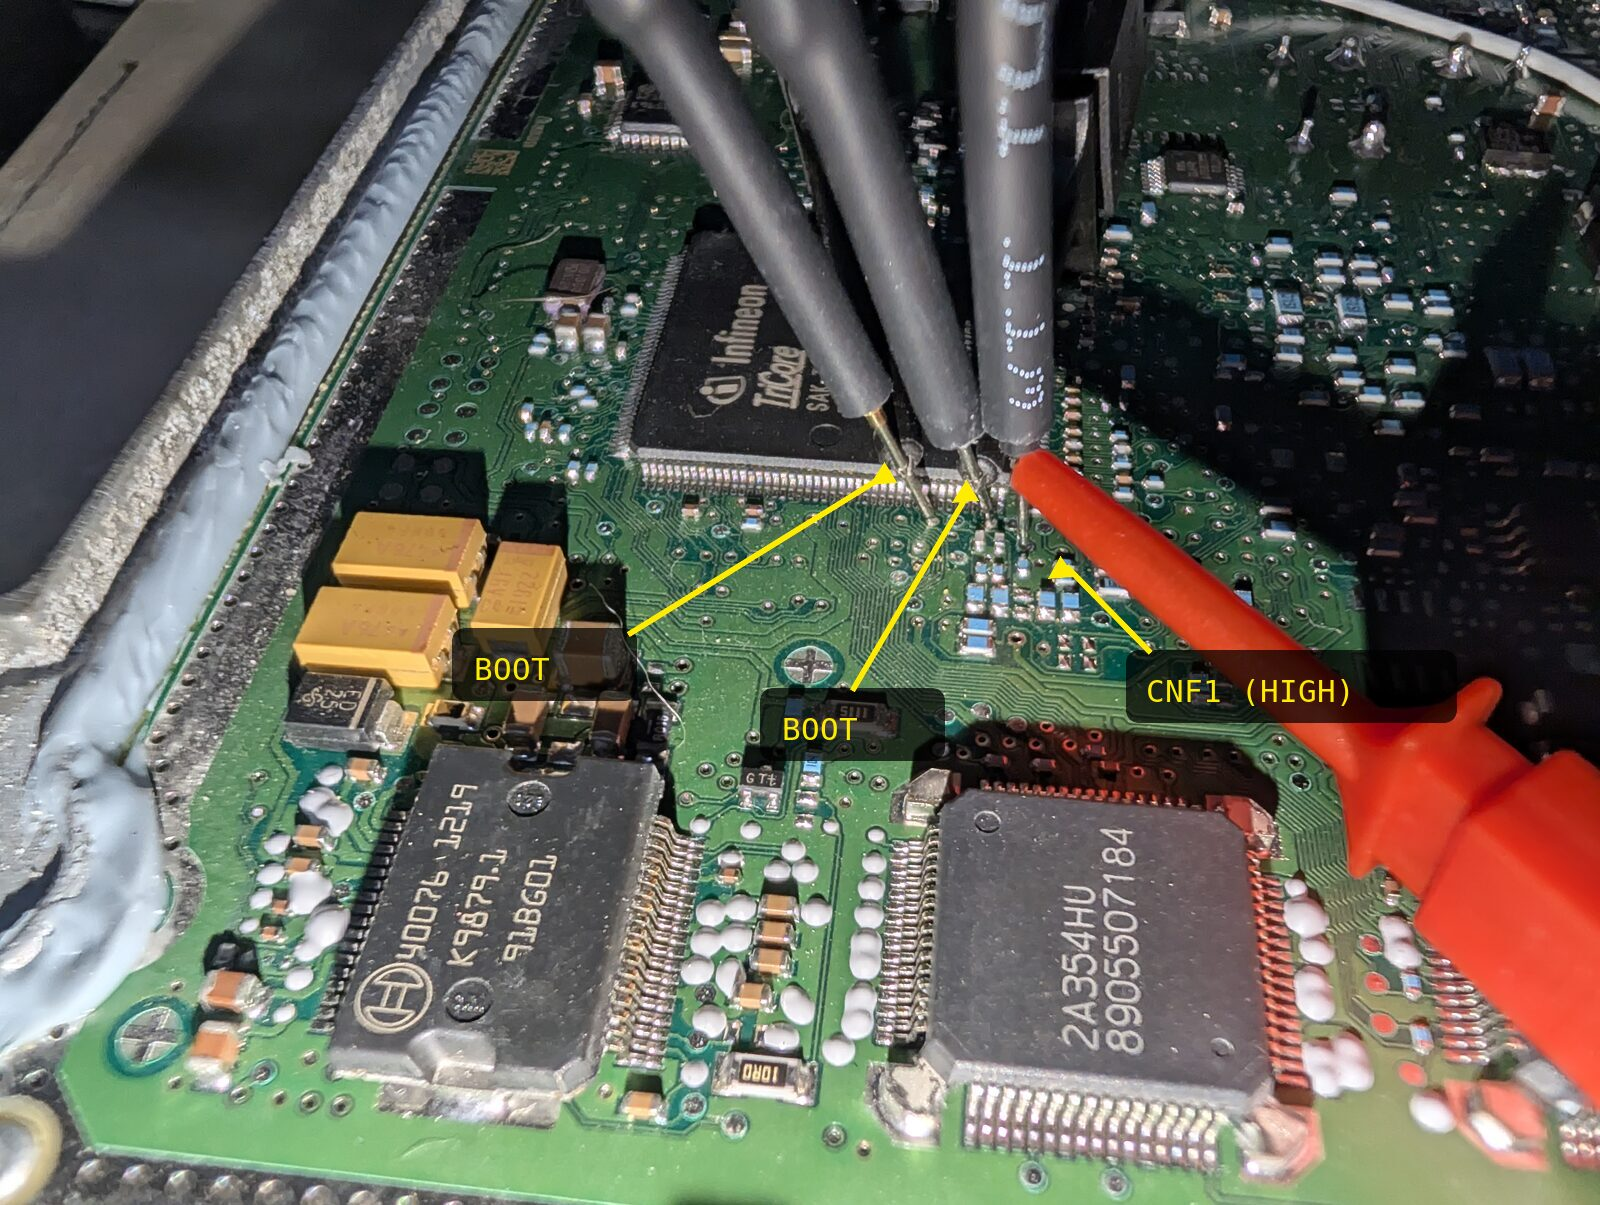
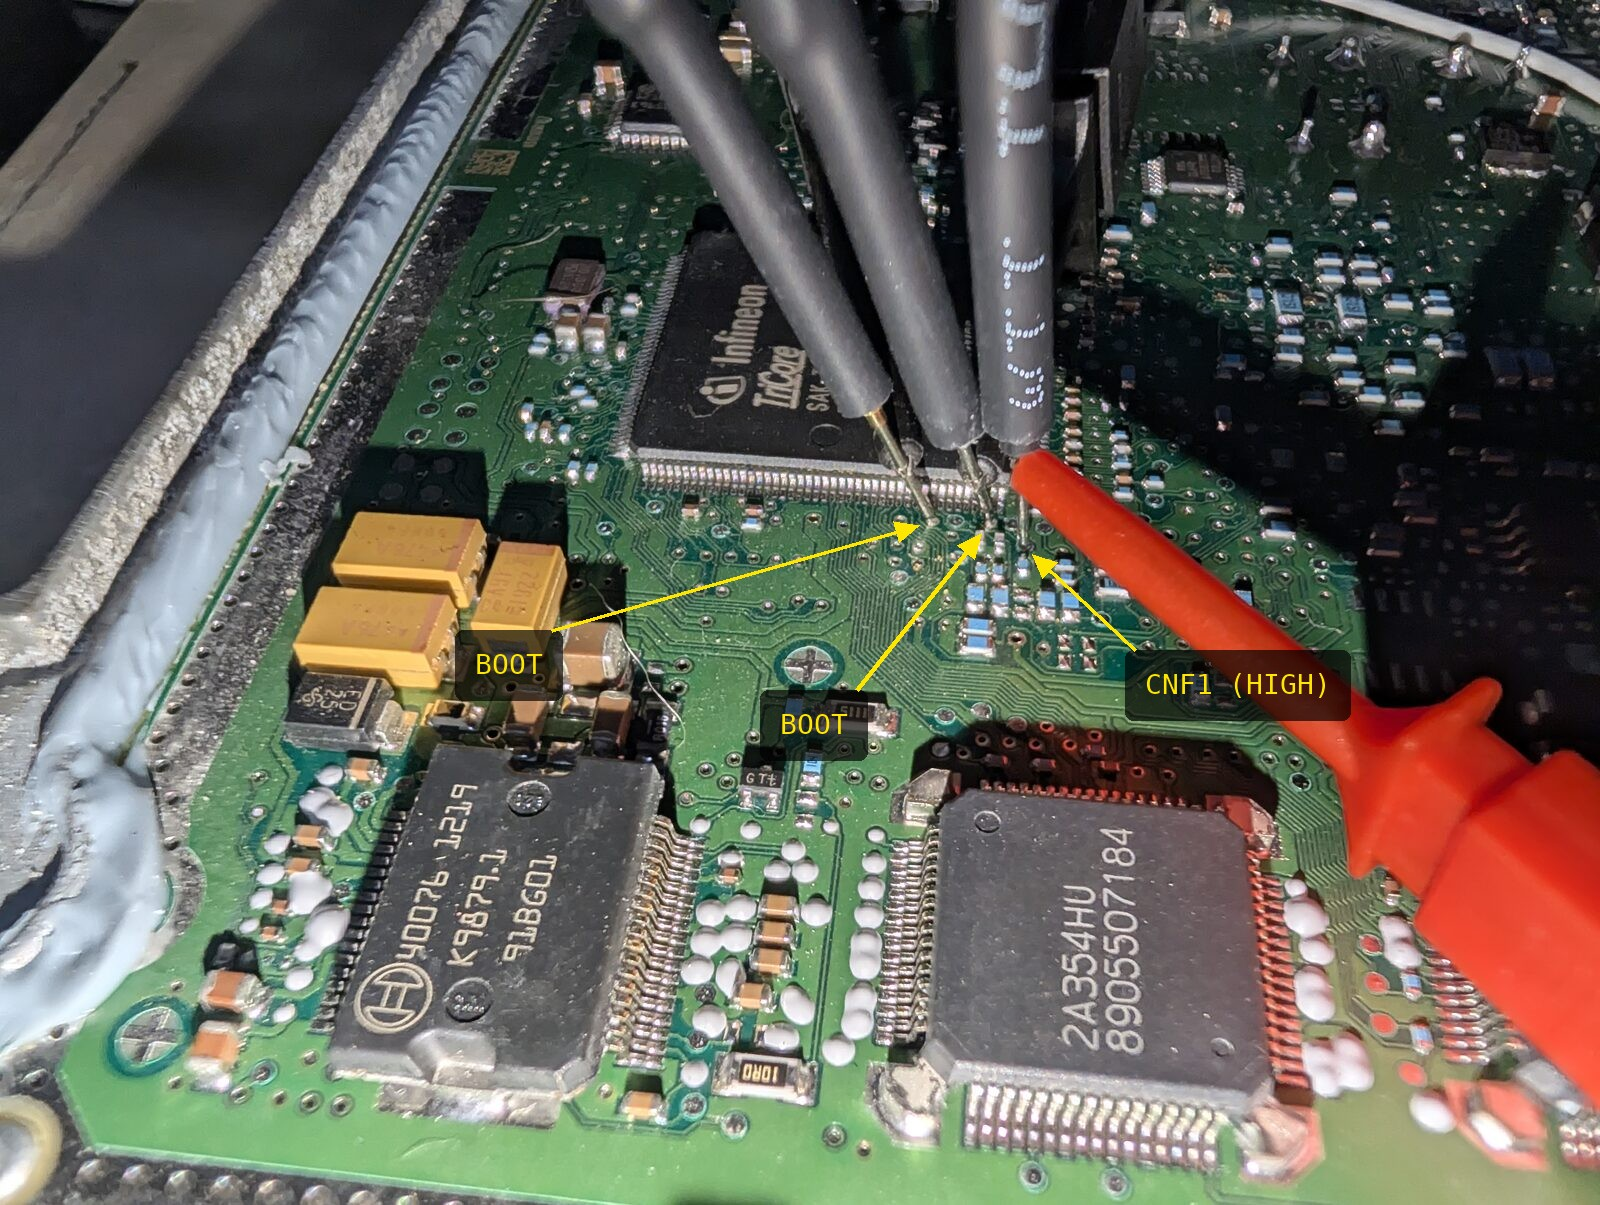
docs(hardware): clarify strap-pad layout and re-point photo arrows
Describe pad positions relative to the upright chip (BOOT, BOOT, CNF1;
CNF1 slightly below-left), explain the rotated photo and the
micro-grabber-on-spring-probe setup, caption the second angle, and
redraw the strap-pad arrows from the clean photo so each points at
its pad.

Changed region(s): [[0.4375, 0.3685, 0.7188, 0.6448], [0.2812, 0.4913, 0.4375, 0.5834], [0.7188, 0.522, 0.9062, 0.6141]]

diff --git a/docs/HARDWARE.md b/docs/HARDWARE.md
@@ -101,13 +101,28 @@ The TC1767 strap pins (173-H = CNF1; 167-L / 174-L = BOOT) are reached at vias/p
 TC1767's package periphery — on this board, along the chip's edge just outside the pin rows. The
 straps were applied with spring probes held on those pads.
 
+**Where to find them:** with the TC1767 right side up (Infineon marking readable), all three pads
+are on the chip's **left side, in the lower part of that column, near the bottom-left corner**. Top
+to bottom they are **BOOT, BOOT, CNF1**. The two BOOT pads sit in near-perfect vertical alignment;
+CNF1 is **slightly below and to the left** of them.
+
 ![MED17.9.8 TC1767 strap pads](images/med1798-strap-pads.jpg)
 
-Strap pads at the TC1767 edge: the **two grey probes are BOOT** (LOW, to a shared 1 kΩ → GND); the
-pad with the **red clip is CNF1** (HIGH, to 3.3 V through 1 kΩ–3 kΩ, ~2.4–3.3 V at the pin). Keep
-every strap lead short.
+The photo is rotated (the chip's left edge faces the bottom of the frame), so the pads read
+**left to right: BOOT, BOOT, CNF1**, with CNF1 a little lower and further right than the two BOOT
+pads. Each pad has a grey spring probe on it. The third (right-hand) probe holds the CNF1 pad, and
+the red micro-grabber is clipped onto that probe rather than onto the pad, which is too small to
+grab. This keeps the CNF1 wire run short. BOOT = LOW, to a shared 1 kΩ → GND. CNF1 = HIGH, to
+3.3 V through 1 kΩ–3 kΩ, ~2.4–3.3 V at the pin. Keep every strap lead short.
 
 ![MED17.9.8 TC1767 strap pads, second angle](images/med1798-strap-pads-2.jpg)
+
+Second angle: the two black micro-grabbers are clipped the same way, one onto each BOOT spring
+probe, to give both BOOT pads a shorter path to ground. That change was made while chasing intermittent BSL entry.
+
+**Placement tip:** clipping a micro-grabber onto the spring probe and steering the probe by the
+grabber makes landing on each pad much easier. You get thumb-and-forefinger fine control instead of
+holding the probe like a pencil. It also keeps the wire run from the pad short.
 
 ![MED17.9.8 bench setup](images/med1798-bench-overview.jpg)
 
